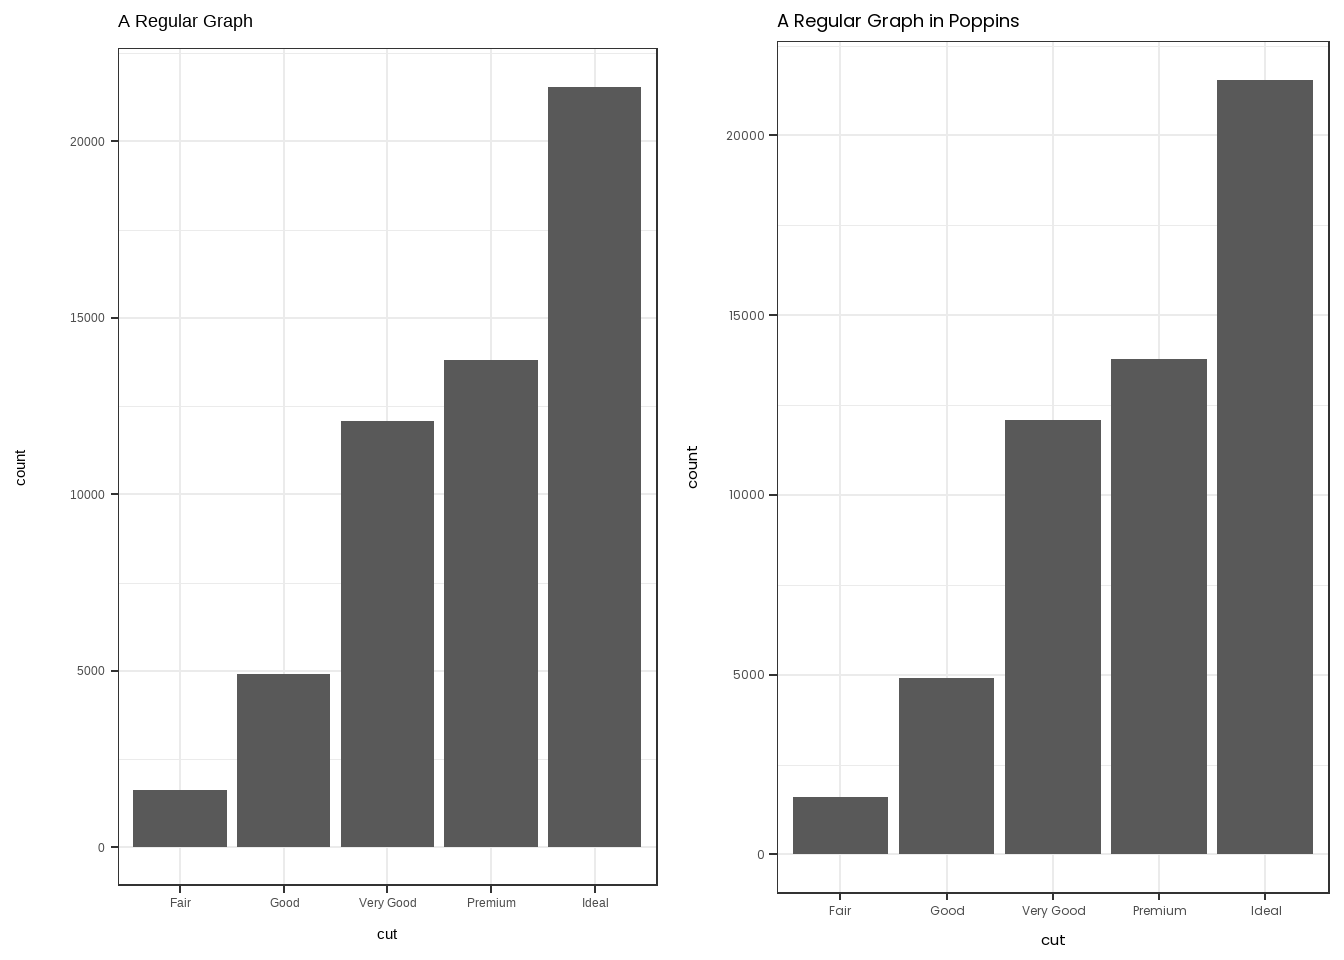
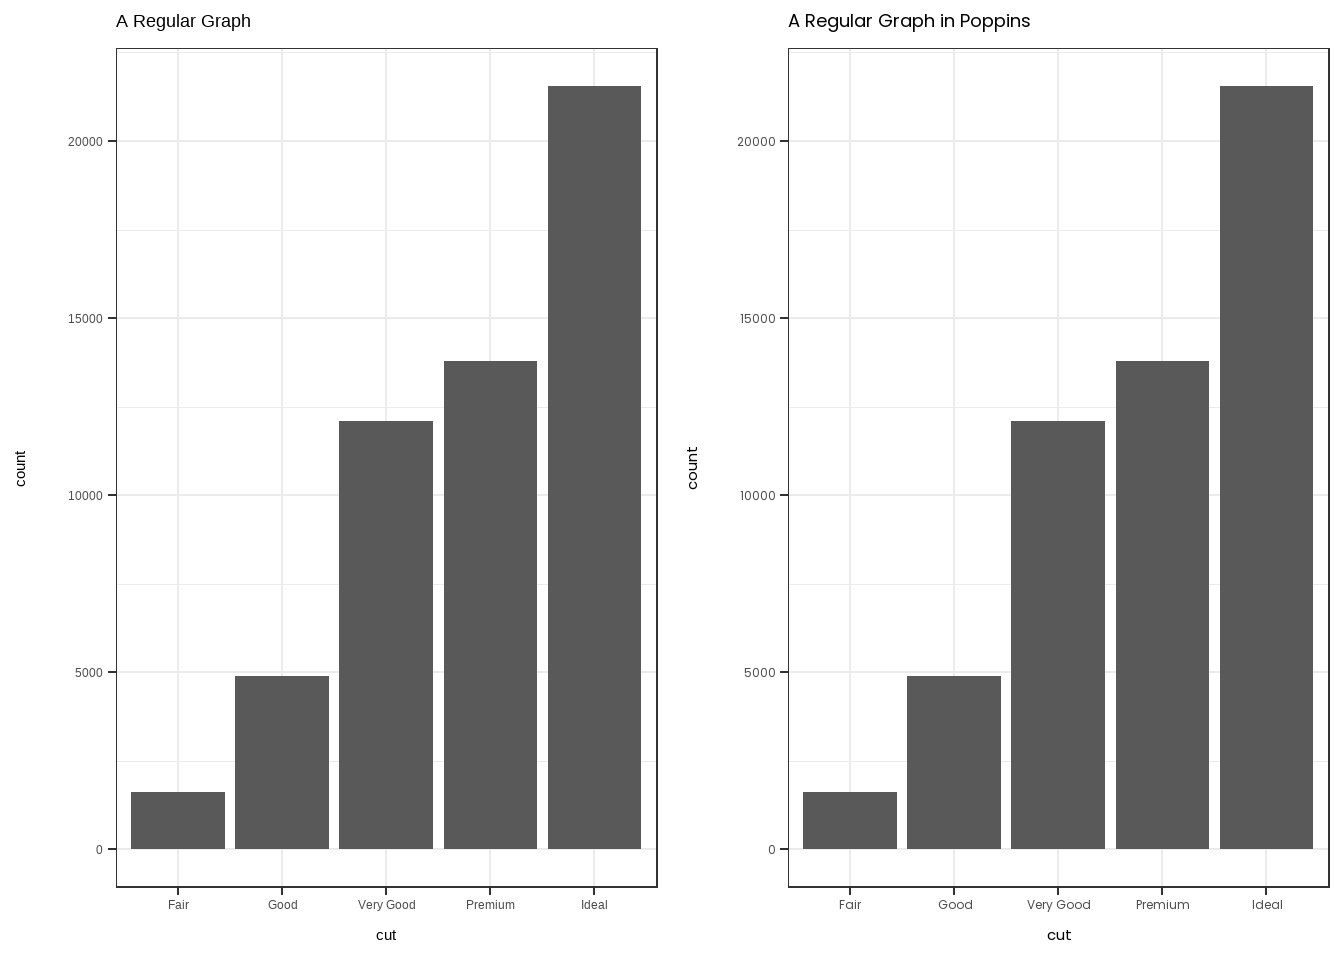
Fixing some typos

diff --git a/docs/index.html b/docs/index.html
@@ -158,7 +158,6 @@ pre > code.sourceCode > span > a:first-child::before { text-decoration: underlin
   <li><a href="#showing-categories-with-a-qualitative-palette" id="toc-showing-categories-with-a-qualitative-palette" class="nav-link" data-scroll-target="#showing-categories-with-a-qualitative-palette">Showing categories with a Qualitative Palette</a></li>
   </ul></li>
   </ul></li>
-  <li><a href="#the-el-education-theme" id="toc-the-el-education-theme" class="nav-link" data-scroll-target="#the-el-education-theme">The EL Education theme</a></li>
   </ul>
 </nav>
     </div>
@@ -209,7 +208,7 @@ pre > code.sourceCode > span > a:first-child::before { text-decoration: underlin
 <section id="typography-for-charts-and-visualizations" class="level2">
 <h2 class="anchored" data-anchor-id="typography-for-charts-and-visualizations">Typography for charts and visualizations</h2>
 <p>For charts, and tables, it is easy to add and then call the <strong>Poppins</strong> font using the <code>showtext</code> library, which was designed for this purpose.</p>
-<p>Whenever you wish to construct visualizations in line with EL’s brand guide (especially if sharing externally), you must first run the following piece of code. This will call the <code>showtext</code> package, ask it to load the **Poppins* font, and then prepare the font to be applied to any visualization you construct.</p>
+<p>Whenever you wish to construct visualizations in line with EL’s brand guide (especially if sharing externally), you must first run the following piece of code. This will call the <code>showtext</code> package, ask it to load the <strong>Poppins</strong> font, and then prepare the font to be applied to any visualization you construct.</p>
 <div class="cell">
 <details open="" class="code-fold">
 <summary>Code in R</summary>
@@ -223,21 +222,22 @@ pre > code.sourceCode > span > a:first-child::before { text-decoration: underlin
 <details class="code-fold">
 <summary>Code in R</summary>
 <div class="sourceCode cell-code" id="cb4"><pre class="sourceCode r code-with-copy"><code class="sourceCode r"><span id="cb4-1"><a href="#cb4-1" aria-hidden="true" tabindex="-1"></a><span class="fu">library</span>(cowplot)</span>
-<span id="cb4-2"><a href="#cb4-2" aria-hidden="true" tabindex="-1"></a></span>
-<span id="cb4-3"><a href="#cb4-3" aria-hidden="true" tabindex="-1"></a>graph1 <span class="ot">&lt;-</span> diamonds <span class="sc">|&gt;</span> </span>
-<span id="cb4-4"><a href="#cb4-4" aria-hidden="true" tabindex="-1"></a>  <span class="fu">ggplot</span>(<span class="at">mapping=</span><span class="fu">aes</span>(<span class="at">x=</span>cut)) <span class="sc">+</span></span>
-<span id="cb4-5"><a href="#cb4-5" aria-hidden="true" tabindex="-1"></a>  <span class="fu">geom_bar</span>() <span class="sc">+</span></span>
-<span id="cb4-6"><a href="#cb4-6" aria-hidden="true" tabindex="-1"></a>  <span class="fu">theme_bw</span>() <span class="sc">+</span></span>
-<span id="cb4-7"><a href="#cb4-7" aria-hidden="true" tabindex="-1"></a>  <span class="fu">labs</span>(<span class="at">title=</span><span class="st">"A Regular Graph"</span>)</span>
-<span id="cb4-8"><a href="#cb4-8" aria-hidden="true" tabindex="-1"></a></span>
-<span id="cb4-9"><a href="#cb4-9" aria-hidden="true" tabindex="-1"></a>graph2 <span class="ot">&lt;-</span> diamonds <span class="sc">|&gt;</span> </span>
-<span id="cb4-10"><a href="#cb4-10" aria-hidden="true" tabindex="-1"></a>  <span class="fu">ggplot</span>(<span class="at">mapping=</span><span class="fu">aes</span>(<span class="at">x=</span>cut)) <span class="sc">+</span></span>
-<span id="cb4-11"><a href="#cb4-11" aria-hidden="true" tabindex="-1"></a>  <span class="fu">geom_bar</span>() <span class="sc">+</span></span>
-<span id="cb4-12"><a href="#cb4-12" aria-hidden="true" tabindex="-1"></a>  <span class="fu">theme_bw</span>() <span class="sc">+</span></span>
-<span id="cb4-13"><a href="#cb4-13" aria-hidden="true" tabindex="-1"></a>  <span class="fu">labs</span>(<span class="at">title=</span><span class="st">"A Regular Graph in Poppins"</span>) <span class="sc">+</span></span>
-<span id="cb4-14"><a href="#cb4-14" aria-hidden="true" tabindex="-1"></a>  <span class="fu">theme</span>(<span class="at">text=</span><span class="fu">element_text</span>(<span class="at">family=</span><span class="st">"Poppins"</span>))</span>
-<span id="cb4-15"><a href="#cb4-15" aria-hidden="true" tabindex="-1"></a></span>
-<span id="cb4-16"><a href="#cb4-16" aria-hidden="true" tabindex="-1"></a><span class="fu">plot_grid</span>(graph1, graph2)</span></code><button title="Copy to Clipboard" class="code-copy-button"><i class="bi"></i></button></pre></div>
+<span id="cb4-2"><a href="#cb4-2" aria-hidden="true" tabindex="-1"></a>cowplot<span class="sc">::</span><span class="fu">set_null_device</span>(<span class="st">"agg"</span>)</span>
+<span id="cb4-3"><a href="#cb4-3" aria-hidden="true" tabindex="-1"></a></span>
+<span id="cb4-4"><a href="#cb4-4" aria-hidden="true" tabindex="-1"></a>graph1 <span class="ot">&lt;-</span> diamonds <span class="sc">|&gt;</span> </span>
+<span id="cb4-5"><a href="#cb4-5" aria-hidden="true" tabindex="-1"></a>  <span class="fu">ggplot</span>(<span class="at">mapping=</span><span class="fu">aes</span>(<span class="at">x=</span>cut)) <span class="sc">+</span></span>
+<span id="cb4-6"><a href="#cb4-6" aria-hidden="true" tabindex="-1"></a>  <span class="fu">geom_bar</span>() <span class="sc">+</span></span>
+<span id="cb4-7"><a href="#cb4-7" aria-hidden="true" tabindex="-1"></a>  <span class="fu">theme_bw</span>() <span class="sc">+</span></span>
+<span id="cb4-8"><a href="#cb4-8" aria-hidden="true" tabindex="-1"></a>  <span class="fu">labs</span>(<span class="at">title=</span><span class="st">"A Regular Graph"</span>)</span>
+<span id="cb4-9"><a href="#cb4-9" aria-hidden="true" tabindex="-1"></a></span>
+<span id="cb4-10"><a href="#cb4-10" aria-hidden="true" tabindex="-1"></a>graph2 <span class="ot">&lt;-</span> diamonds <span class="sc">|&gt;</span> </span>
+<span id="cb4-11"><a href="#cb4-11" aria-hidden="true" tabindex="-1"></a>  <span class="fu">ggplot</span>(<span class="at">mapping=</span><span class="fu">aes</span>(<span class="at">x=</span>cut)) <span class="sc">+</span></span>
+<span id="cb4-12"><a href="#cb4-12" aria-hidden="true" tabindex="-1"></a>  <span class="fu">geom_bar</span>() <span class="sc">+</span></span>
+<span id="cb4-13"><a href="#cb4-13" aria-hidden="true" tabindex="-1"></a>  <span class="fu">theme_bw</span>() <span class="sc">+</span></span>
+<span id="cb4-14"><a href="#cb4-14" aria-hidden="true" tabindex="-1"></a>  <span class="fu">labs</span>(<span class="at">title=</span><span class="st">"A Regular Graph in Poppins"</span>) <span class="sc">+</span></span>
+<span id="cb4-15"><a href="#cb4-15" aria-hidden="true" tabindex="-1"></a>  <span class="fu">theme</span>(<span class="at">text=</span><span class="fu">element_text</span>(<span class="at">family=</span><span class="st">"Poppins"</span>))</span>
+<span id="cb4-16"><a href="#cb4-16" aria-hidden="true" tabindex="-1"></a></span>
+<span id="cb4-17"><a href="#cb4-17" aria-hidden="true" tabindex="-1"></a><span class="fu">plot_grid</span>(graph1, graph2)</span></code><button title="Copy to Clipboard" class="code-copy-button"><i class="bi"></i></button></pre></div>
 </details>
 <div class="cell-output-display">
 <div id="fig-PoppinsGraph" class="quarto-figure quarto-figure-center quarto-float anchored">
@@ -462,14 +462,11 @@ Figure&nbsp;7: The colorblindr package allows you to take any plot and look at i
 </div>
 </div>
 </div>
-<p>Instead of setting our palettes, we understnd that we will pull colors as necessary. If the number of categories exceeds one that we can easily graph with our palette, it is also useful to pull palettes from the <code>viridis</code> or <code>RColorBrewer</code> packages.</p>
-</section>
-</section>
-</section>
-<section id="the-el-education-theme" class="level1">
-<h1>The EL Education theme</h1>
+<p>Instead of setting our palettes, we understand that we will pull colors as necessary. If the number of categories exceeds one that we can easily graph with our palette, it is also useful to pull palettes from the <code>viridis</code> or <code>RColorBrewer</code> packages.</p>
 
 
+</section>
+</section>
 </section>
 
 </main> <!-- /main -->
